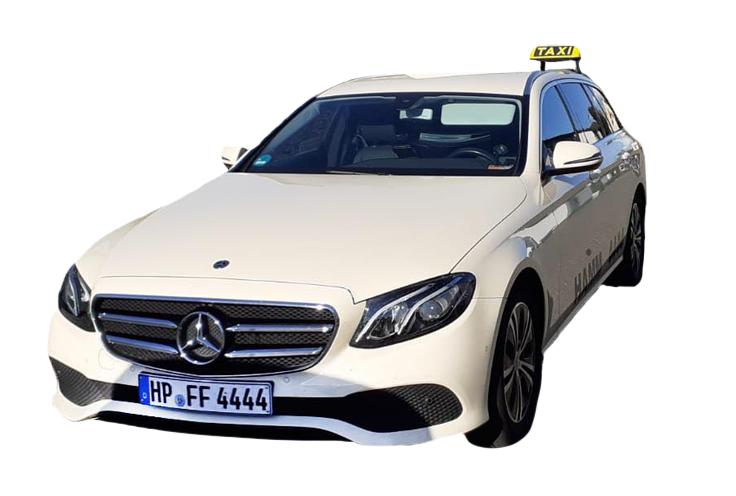
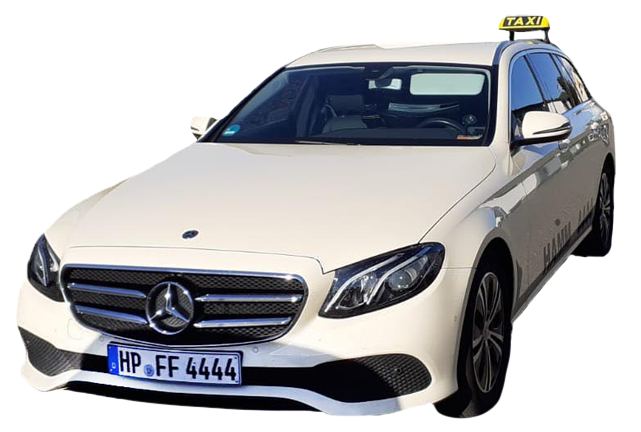
taxi-hamm: changed color, images, added animation and made it more responsive

diff --git a/preview/src/css/main.css b/preview/src/css/main.css
@@ -1,13 +1,13 @@
 :root {
-  --primary-hue: 200;
-  --secondary-hue: 245;
+  --primary-hue: 182;
+  --secondary-hue: 23;
 
   --background-clr: hsl(var(--primary-hue), 100%, 65%);
   --background-lighter-clr: hsl(var(--primary-hue), 100%, 75%);
   --background-darker-clr: hsl(var(--primary-hue), 100%, 50%);
 
   --dark-font-clr: hsl(var(--primary-hue), 100%, 12%);
-  --secondary-font-clr: hsl(var(--secondary-hue), 100%, 45%);
+  --secondary-font-clr: hsl(var(--secondary-hue), 100%, 55%);
   --secondary-font-clr-dark: hsl(var(--secondary-hue), 100%, 32%);
 
   --nav-bar-height: 80px;
@@ -17,7 +17,7 @@
 
 body {
   margin: 0;
-  padding: 60px 0 0;
+  padding: 30px 0 0;
 
   display: flex;
   flex-direction: column;
@@ -76,7 +76,7 @@ li {
 
   background: var(--background-clr);
 }
-@media (min-width: 670px) {
+@media (min-width: 670px) {/* /////////////////////////////////////////////////////////////////////////////////////////////// */
   #nav-bar-container {
     box-shadow: 0 0 var(--nav-box-shadow);
     border-radius: var(--border-radius);
@@ -85,7 +85,13 @@ li {
     margin: var(--margin);
     width: calc(100% - ((var(--margin) + var(--padding-sides)) * 4));
   }
+
 }
+/* @media (max-width: 670) {
+  #nav-bar-container {
+    justify-content: center;
+  }
+} */
 
 .logo {
   display: flex;
@@ -103,9 +109,9 @@ li {
   filter: hue-rotate(170deg);
 }
 .logo .taxi-hamm {
-  height: 32px;
-
-  filter: hue-rotate(200deg);
+  height: calc(var(--nav-bar-height) - 20px);
+  margin-left: 20px;
+  /* filter: hue-rotate(200deg); */
 }
 
 .nav {
@@ -156,9 +162,9 @@ li {
   box-shadow: 0 0 10px var(--secondary-font-clr) inset;
 }
 
-.taxi-hamm.activeLink {
+/* .taxi-hamm.activeLink {
   border-bottom: 5px solid var(--secondary-font-clr);
-}
+} */
 .nav-item .activeLink {
   box-shadow: 0 0 10px rgba(0, 0, 0, 0.438);
 }
@@ -229,7 +235,10 @@ li {
   background: transparent;
 }
 
-@media screen and (max-width: 1480px) {
+@media screen and (max-width: 1200px) {/* /////////////////////////////////////////////////////////////////////////////////////////////// */
+  #nav-bar-container {
+    justify-content: center;
+  }
   .nav-toggle-label {
     /* outline: 2px solid red; */
     position: absolute;
@@ -244,7 +253,9 @@ li {
     top: 115%;
     left: 0px;
     width: calc(100% - calc(var(--margin) * 2));
-    transform: scale(0);
+    transform: scale(0, 1);
+    transform-origin: right;
+    transition: transform 200ms;
 
     height: max-content;
 
@@ -255,7 +266,6 @@ li {
     border-radius: var(--border-radius);
 
     background: var(--background-clr);
-    box-shadow: 0 0 var(--nav-box-shadow);
   }
   .nav-item {
     margin: 15px 0;
@@ -270,20 +280,23 @@ li {
   }
   #nav-toggle:checked ~ .nav {
     transform: scale(1);
+    box-shadow: 0 0 var(--nav-box-shadow);
+    
+    transition: transform 200ms, box-shadow 500ms;
   }
 }
-@media screen and (max-width: 940px) {
+@media screen and (max-width: 940px) {/* /////////////////////////////////////////////////////////////////////////////////////////////// */
   .telefon {
     display: none;
   }
 }
-@media (max-width: 670px) {
+@media (max-width: 670px) {/* /////////////////////////////////////////////////////////////////////////////////////////////// */
   .nav {
     margin: 0 20px;
     width: calc(100% - 70px);
   }
 }
-@media screen and (max-width: 565px) {
+@media screen and (max-width: 565px) {/* /////////////////////////////////////////////////////////////////////////////////////////////// */
   .logo .taxi {
     display: none;
   }
@@ -319,6 +332,7 @@ li {
   /* justify-content: center; */
   align-items: center;
   padding: var(--padding);
+  padding-top: 30px;
 
   background-image: linear-gradient(
     135deg,
@@ -336,7 +350,7 @@ li {
 /*///////////////// info-banner ////////////////////*/
 #info-banner {
   /* outline: 2px solid red; */
-  min-width: 70ch;
+  max-width: 70ch;
 
   position: relative;
 
@@ -346,6 +360,11 @@ li {
   flex-wrap: wrap;
 
   padding: 20px;
+}
+.visiten-container {
+  display: flex;
+  flex-direction: column;
+  align-items: flex-end;
 }
 .rund-um-die-uhr {
   height: 80px;
@@ -358,7 +377,7 @@ li {
   /* transform: translateY(-20px); */
 }
 
-@media (min-width: 600px) {
+@media (min-width: 600px) {/* /////////////////////////////////////////////////////////////////////////////////////////////// */
   /* .visiten-karte {
     transform: translateY(-20px);
   }

diff --git a/preview/Flughafentransfer/index.html b/preview/Flughafentransfer/index.html
@@ -9,8 +9,8 @@
 		<meta name="robots" content="index">
 		<meta name="robots" content="nofollow">
 		<meta name="language" content="Deutsch">
-		<meta name="keywords" content="Hamm, Taxi Hamm, Lampertheim, Hofheim, Hessen, Kreis Bergstraße, Taxi, Krankentransporte, Flughafentransfer, Kurierdienste, Dialysefahrten, Bestrahlungsfahrten, Heppenheim, Hüttenfeld, Bürstadt, Worms, Flughafenzubringer, Flughafen, Kurfahrten, Ausflugsfahrten">
-		<meta name="description" content="Willkommen bei Taxi-Hamm, Ihr Taxiunternehmen in Lampertheim und Hofheim seit 1989. Wir bieten folgende Fahrten an: Krankentransporte, Flughafentransfer, Kurierdienste">
+		<meta name="keywords" content="Hamm, Taxi Hamm, Lampertheim, Hofheim, Hessen, Kreis Bergstraße, Taxi, Krankenfahrten, Flughafentransfer, Kurierdienste, Dialysefahrten, Bestrahlungsfahrten, Heppenheim, Hüttenfeld, Bürstadt, Worms, Flughafenzubringer, Flughafen, Kurfahrten, Ausflugsfahrten">
+		<meta name="description" content="Willkommen bei Taxi-Hamm, Ihr Taxiunternehmen in Lampertheim und Hofheim seit 1989. Wir bieten folgende Fahrten an: Krankenfahrten, Flughafentransfer, Kurierdienste">
 		<meta name="author" content="af">
 		<meta name="distribution" content="global">
 		<meta name="robots" content="all">
@@ -28,15 +28,15 @@
     <header id="nav-bar-container"></header>
     <main id="body-container">
       <div id="info-banner"></div>
-      <div class="flughafentransporte-container">
-        <h1>Flughafentransporte</h1>
+      <div class="Flughafentransfer-container">
+        <h1>Flughafentransfer</h1>
         <h3>Bei uns fängt der Urlaub direkt vor der Haustür an...</h3>
         <ul>
           <li>Unser klimatisierter Bus kann bis zu 8 Personen befördern.</li>
           <li>Pünktlichkeit wird bei uns groß geschrieben.</li>
           <li>Um Vorbestellung wird gebeten</li>
         </ul>
-        <img src="/src/assets/images/taxi-bus.gif" alt="taxi-bus" />
+        <!-- <img src="/src/assets/images/taxi-bus.gif" alt="taxi-bus" /> -->
       </div>
     </main>
     <footer></footer>

diff --git a/preview/start/index.html b/preview/start/index.html
@@ -9,8 +9,8 @@
 		<meta name="robots" content="index">
 		<meta name="robots" content="nofollow">
 		<meta name="language" content="Deutsch">
-		<meta name="keywords" content="Hamm, Taxi Hamm, Lampertheim, Hofheim, Hessen, Kreis Bergstraße, Taxi, Krankentransporte, Flughafentransfer, Kurierdienste, Dialysefahrten, Bestrahlungsfahrten, Heppenheim, Hüttenfeld, Bürstadt, Worms, Flughafenzubringer, Flughafen, Kurfahrten, Ausflugsfahrten">
-		<meta name="description" content="Willkommen bei Taxi-Hamm, Ihr Taxiunternehmen in Lampertheim und Hofheim seit 1989. Wir bieten folgende Fahrten an: Krankentransporte, Flughafentransfer, Kurierdienste">
+		<meta name="keywords" content="Hamm, Taxi Hamm, Lampertheim, Hofheim, Hessen, Kreis Bergstraße, Taxi, Krankenfahrten, Flughafentransfer, Kurierdienste, Dialysefahrten, Bestrahlungsfahrten, Heppenheim, Hüttenfeld, Bürstadt, Worms, Flughafenzubringer, Flughafen, Kurfahrten, Ausflugsfahrten">
+		<meta name="description" content="Willkommen bei Taxi-Hamm, Ihr Taxiunternehmen in Lampertheim und Hofheim seit 1989. Wir bieten folgende Fahrten an: Krankenfahrten, Flughafentransfer, Kurierdienste">
 		<meta name="author" content="af">
 		<meta name="distribution" content="global">
 		<meta name="robots" content="all">
@@ -32,14 +32,14 @@
         <h2>Wir bieten folgende Fahrten an:</h2>
         <ul>
           <li>
-            <a href="/Krankentransporte/">Krankentransporte</a> (sitzend)
+            <a href="/Krankenfahrten/">Krankenfahrten</a> (sitzend)
             <ul>
               <li>Dialyse- und Bestrahlungsfahrten</li>
               <li>Krankengymnastik</li>
               <li>zum Arzt</li>
             </ul>
           </li>
-          <li><a href="/Flughafentransporte/">Flughafentransporte</a></li>
+          <li><a href="/Flughafentransfer/">Flughafentransfer</a></li>
           <li>
             <a href="/Sonstige-Fahrten/">Sonstige Fahrten</a> (z.B.
             Kurierfahrten In- und Ausland)

diff --git a/preview/Krankenfahrten/index.html b/preview/Krankenfahrten/index.html
@@ -9,8 +9,8 @@
 		<meta name="robots" content="index">
 		<meta name="robots" content="nofollow">
 		<meta name="language" content="Deutsch">
-		<meta name="keywords" content="Hamm, Taxi Hamm, Lampertheim, Hofheim, Hessen, Kreis Bergstraße, Taxi, Krankentransporte, Flughafentransfer, Kurierdienste, Dialysefahrten, Bestrahlungsfahrten, Heppenheim, Hüttenfeld, Bürstadt, Worms, Flughafenzubringer, Flughafen, Kurfahrten, Ausflugsfahrten">
-		<meta name="description" content="Willkommen bei Taxi-Hamm, Ihr Taxiunternehmen in Lampertheim und Hofheim seit 1989. Wir bieten folgende Fahrten an: Krankentransporte, Flughafentransfer, Kurierdienste">
+		<meta name="keywords" content="Hamm, Taxi Hamm, Lampertheim, Hofheim, Hessen, Kreis Bergstraße, Taxi, Krankenfahrten, Flughafentransfer, Kurierdienste, Dialysefahrten, Bestrahlungsfahrten, Heppenheim, Hüttenfeld, Bürstadt, Worms, Flughafenzubringer, Flughafen, Kurfahrten, Ausflugsfahrten">
+		<meta name="description" content="Willkommen bei Taxi-Hamm, Ihr Taxiunternehmen in Lampertheim und Hofheim seit 1989. Wir bieten folgende Fahrten an: Krankenfahrten, Flughafentransfer, Kurierdienste">
 		<meta name="author" content="af">
 		<meta name="distribution" content="global">
 		<meta name="robots" content="all">
@@ -28,8 +28,8 @@
     <header id="nav-bar-container"></header>
     <main id="body-container">
       <div id="info-banner"></div>
-      <div class="krankentransporte-container">
-        <h2>Krankentransporte</h2>
+      <div class="Krankenfahrten-container">
+        <h2>Krankenfahrten</h2>
         <p>
           Wir bieten Krankenfahrten für alle Kassen an. Ob zur Dialyse, zur
           Bestrahlung, zur Krankengymnastik oder einfach nur zum Arzt. Wir

diff --git a/preview/Kontakt/index.html b/preview/Kontakt/index.html
@@ -9,8 +9,8 @@
 		<meta name="robots" content="index">
 		<meta name="robots" content="nofollow">
 		<meta name="language" content="Deutsch">
-		<meta name="keywords" content="Hamm, Taxi Hamm, Lampertheim, Hofheim, Hessen, Kreis Bergstraße, Taxi, Krankentransporte, Flughafentransfer, Kurierdienste, Dialysefahrten, Bestrahlungsfahrten, Heppenheim, Hüttenfeld, Bürstadt, Worms, Flughafenzubringer, Flughafen, Kurfahrten, Ausflugsfahrten">
-		<meta name="description" content="Willkommen bei Taxi-Hamm, Ihr Taxiunternehmen in Lampertheim und Hofheim seit 1989. Wir bieten folgende Fahrten an: Krankentransporte, Flughafentransfer, Kurierdienste">
+		<meta name="keywords" content="Hamm, Taxi Hamm, Lampertheim, Hofheim, Hessen, Kreis Bergstraße, Taxi, Krankenfahrten, Flughafentransfer, Kurierdienste, Dialysefahrten, Bestrahlungsfahrten, Heppenheim, Hüttenfeld, Bürstadt, Worms, Flughafenzubringer, Flughafen, Kurfahrten, Ausflugsfahrten">
+		<meta name="description" content="Willkommen bei Taxi-Hamm, Ihr Taxiunternehmen in Lampertheim und Hofheim seit 1989. Wir bieten folgende Fahrten an: Krankenfahrten, Flughafentransfer, Kurierdienste">
 		<meta name="author" content="af">
 		<meta name="distribution" content="global">
 		<meta name="robots" content="all">
@@ -31,7 +31,7 @@
       <div class="kontakt-container">
         <h1>Kontakt</h1>
         <h3>
-          Rudi Hamm <br />
+          Marcus Hamm <br />
           Alte Viernheimerstr. 22a <br />
           68623 Lampertheim
         </h3>

diff --git a/preview/Datenschutz/index.html b/preview/Datenschutz/index.html
@@ -9,8 +9,8 @@
 		<meta name="robots" content="index">
 		<meta name="robots" content="nofollow">
 		<meta name="language" content="Deutsch">
-		<meta name="keywords" content="Hamm, Taxi Hamm, Lampertheim, Hofheim, Hessen, Kreis Bergstraße, Taxi, Krankentransporte, Flughafentransfer, Kurierdienste, Dialysefahrten, Bestrahlungsfahrten, Heppenheim, Hüttenfeld, Bürstadt, Worms, Flughafenzubringer, Flughafen, Kurfahrten, Ausflugsfahrten">
-		<meta name="description" content="Willkommen bei Taxi-Hamm, Ihr Taxiunternehmen in Lampertheim und Hofheim seit 1989. Wir bieten folgende Fahrten an: Krankentransporte, Flughafentransfer, Kurierdienste">
+		<meta name="keywords" content="Hamm, Taxi Hamm, Lampertheim, Hofheim, Hessen, Kreis Bergstraße, Taxi, Krankenfahrten, Flughafentransfer, Kurierdienste, Dialysefahrten, Bestrahlungsfahrten, Heppenheim, Hüttenfeld, Bürstadt, Worms, Flughafenzubringer, Flughafen, Kurfahrten, Ausflugsfahrten">
+		<meta name="description" content="Willkommen bei Taxi-Hamm, Ihr Taxiunternehmen in Lampertheim und Hofheim seit 1989. Wir bieten folgende Fahrten an: Krankenfahrten, Flughafentransfer, Kurierdienste">
 		<meta name="author" content="af">
 		<meta name="distribution" content="global">
 		<meta name="robots" content="all">

diff --git a/preview/Sonstige-Fahrten/index.html b/preview/Sonstige-Fahrten/index.html
@@ -9,8 +9,8 @@
 		<meta name="robots" content="index">
 		<meta name="robots" content="nofollow">
 		<meta name="language" content="Deutsch">
-		<meta name="keywords" content="Hamm, Taxi Hamm, Lampertheim, Hofheim, Hessen, Kreis Bergstraße, Taxi, Krankentransporte, Flughafentransfer, Kurierdienste, Dialysefahrten, Bestrahlungsfahrten, Heppenheim, Hüttenfeld, Bürstadt, Worms, Flughafenzubringer, Flughafen, Kurfahrten, Ausflugsfahrten">
-		<meta name="description" content="Willkommen bei Taxi-Hamm, Ihr Taxiunternehmen in Lampertheim und Hofheim seit 1989. Wir bieten folgende Fahrten an: Krankentransporte, Flughafentransfer, Kurierdienste">
+		<meta name="keywords" content="Hamm, Taxi Hamm, Lampertheim, Hofheim, Hessen, Kreis Bergstraße, Taxi, Krankenfahrten, Flughafentransfer, Kurierdienste, Dialysefahrten, Bestrahlungsfahrten, Heppenheim, Hüttenfeld, Bürstadt, Worms, Flughafenzubringer, Flughafen, Kurfahrten, Ausflugsfahrten">
+		<meta name="description" content="Willkommen bei Taxi-Hamm, Ihr Taxiunternehmen in Lampertheim und Hofheim seit 1989. Wir bieten folgende Fahrten an: Krankenfahrten, Flughafentransfer, Kurierdienste">
 		<meta name="author" content="af">
 		<meta name="distribution" content="global">
 		<meta name="robots" content="all">

diff --git a/preview/index.html b/preview/index.html
@@ -11,8 +11,8 @@
 	<meta name="robots" content="index">
 	<meta name="robots" content="nofollow">
 	<meta name="language" content="Deutsch">
-	<meta name="keywords" content="Hamm, Taxi Hamm, Lampertheim, Hofheim, Hessen, Kreis Bergstraße, Taxi, Krankentransporte, Flughafentransfer, Kurierdienste, Dialysefahrten, Bestrahlungsfahrten, Heppenheim, Hüttenfeld, Bürstadt, Worms, Flughafenzubringer, Flughafen, Kurfahrten, Ausflugsfahrten">
-	<meta name="description" content="Willkommen bei Taxi-Hamm, Ihr Taxiunternehmen in Lampertheim und Hofheim seit 1989. Wir bieten folgende Fahrten an: Krankentransporte, Flughafentransfer, Kurierdienste">
+	<meta name="keywords" content="Hamm, Taxi Hamm, Lampertheim, Hofheim, Hessen, Kreis Bergstraße, Taxi, Krankenfahrten, Flughafentransfer, Kurierdienste, Dialysefahrten, Bestrahlungsfahrten, Heppenheim, Hüttenfeld, Bürstadt, Worms, Flughafenzubringer, Flughafen, Kurfahrten, Ausflugsfahrten">
+	<meta name="description" content="Willkommen bei Taxi-Hamm, Ihr Taxiunternehmen in Lampertheim und Hofheim seit 1989. Wir bieten folgende Fahrten an: Krankenfahrten, Flughafentransfer, Kurierdienste">
 	<meta name="author" content="af">
 	<meta name="distribution" content="global">
 	<meta name="robots" content="all">

diff --git a/preview/src/scripts/main.js b/preview/src/scripts/main.js
@@ -42,7 +42,6 @@ async function getUserCount() {
 //inject components
 navBarContainer.innerHTML = getFile("/src/components/nav-bar.html");
 if (infoBanner) infoBanner.innerHTML = getFile("/src/components/info-banner.html"); //prettier-ignore
-// bodyContainer.innerHTML = `<img class="telefon" src="/src/assets/images/telefon.jpg" alt="telefon Kontakt" />` + bodyContainer.innerHTML; //prettier-ignore
 footer.innerHTML = getFile("/src/components/footer.html");
 
 //mark the active link
@@ -73,4 +72,5 @@ getUserCount().then((userCount) => {
   document.querySelector(".userCount #yesterday").innerText = userCount.yesterday; //prettier-ignore
   document.querySelector(".userCount #ever").innerText = userCount.ever;
   document.querySelector(".userCount #since").innerText = userCount.since;
+  document.querySelector(".userCount #domain").innerText = userCount.onDomain;
 });

diff --git a/preview/src/components/nav-bar.html b/preview/src/components/nav-bar.html
@@ -1,9 +1,9 @@
 <!-- prettier-ignore -->
 <div class="logo" title="Taxi-Hamm | Start" onclick="location.href = '/'">
-  <img class="taxi" src="/src/assets/images/taxi.gif" alt="taxi" />
+  <!-- <img class="taxi" src="/src/assets/images/taxi.gif" alt="taxi" /> -->
   <img
     class="taxi-hamm"
-    src="/src/assets/images/taxi-hamm.png"
+    src="/src/assets/images/Taxi-Hamm-logo-nn.png"
     alt="Taxi-Hamm"
     data-href="/start/"
   />
@@ -17,10 +17,10 @@
 />
 <nav class="nav">
   <div class="nav-item">
-    <a href="/Krankentransporte/">Krankentransporte</a>
+    <a href="/Krankenfahrten/">Krankenfahrten</a>
   </div>
   <div class="nav-item">
-    <a href="/Flughafentransporte/">Flughafentransporte</a>
+    <a href="/Flughafentransfer/">Flughafentransfer</a>
   </div>
   <div class="nav-item">
     <a href="/Sonstige-Fahrten/">Sonstige Fahrten</a>

diff --git a/preview/src/components/info-banner.html b/preview/src/components/info-banner.html
@@ -1,16 +1,15 @@
 <div class="image-container">
-  <img
+  <!-- <img
     class="rund-um-die-uhr"
     src="/src/assets/images/rund-um-die-uhr.gif"
     alt="rund um die uhr"
-  />
+  /> -->
 
   <div class="visiten-container">
     <img
       class="visiten-karte"
-      src="/src/assets/images/visitenkarte.png"
+      src="/src/assets/images/taxi-seite-n.png"
       alt="taxi-hamm"
-      style="filter: grayscale(1)"
     />
     <h2 class="kontakt-link"><a href="/Kontakt/">Kontakt</a></h2>
   </div>
@@ -18,5 +17,5 @@
 
 <div>
   <h4>Unsere Fahrer sind zu jederzeit - freundlich und sehr hilfsbereit!</h4>
-  <img src="/src/assets/images/taxi-mit-person.gif" alt="taxi mit person" />
+  <!-- <img src="/src/assets/images/taxi-seite-n.png" alt="taxi mit person" /> -->
 </div>

diff --git a/preview/src/components/footer.html b/preview/src/components/footer.html
@@ -11,4 +11,5 @@
   <p>gestern: <span id="yesterday"></span></p>
   <p>gesamt: <span id="ever"></span></p>
   <p>zählt seit: <span id="since"></span></p>
+  <p>auf domain: <span id="domain"></span></p>
 </div>
